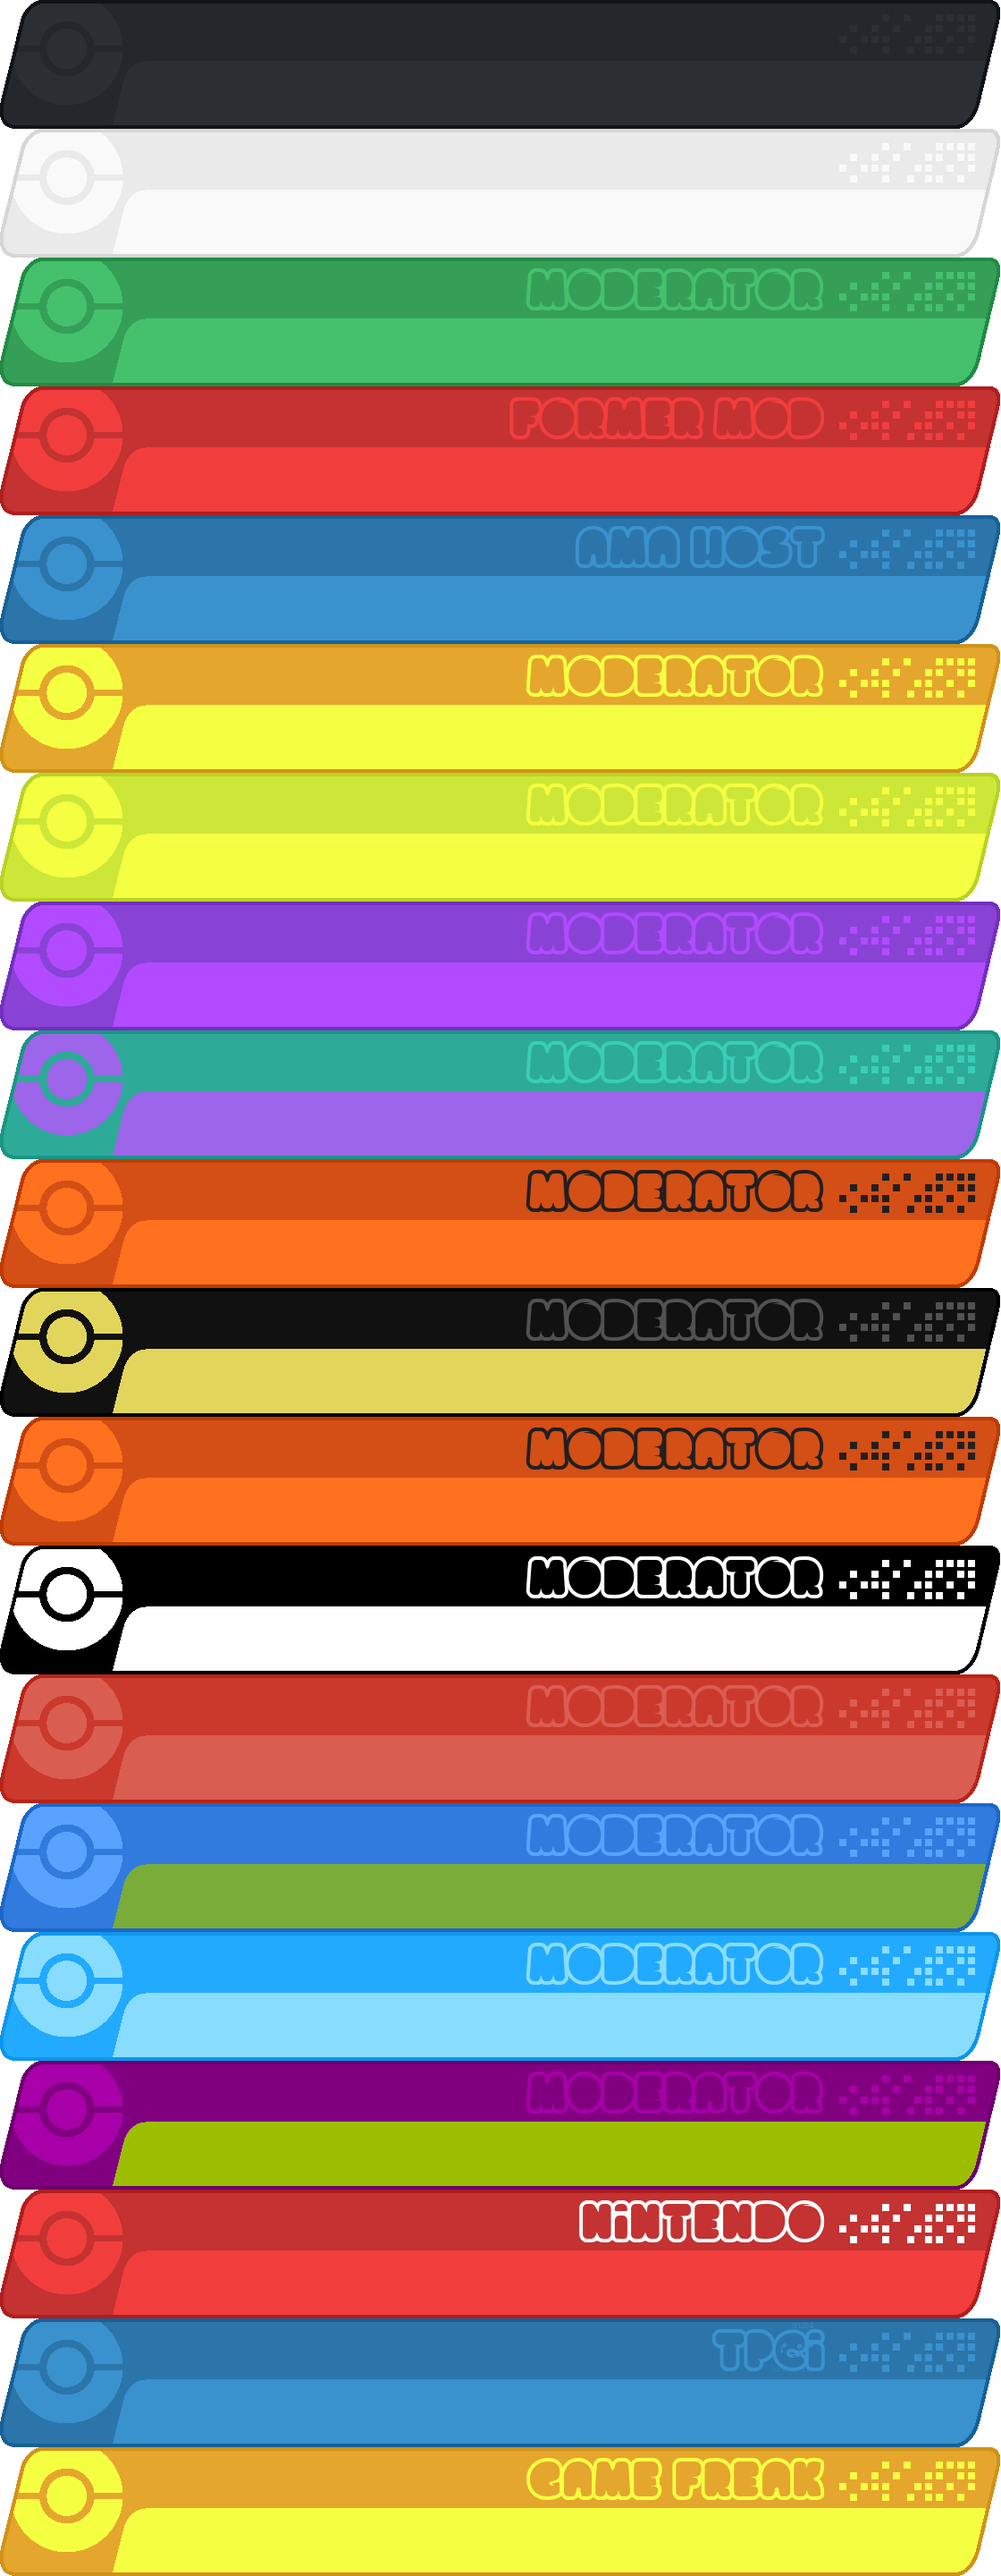
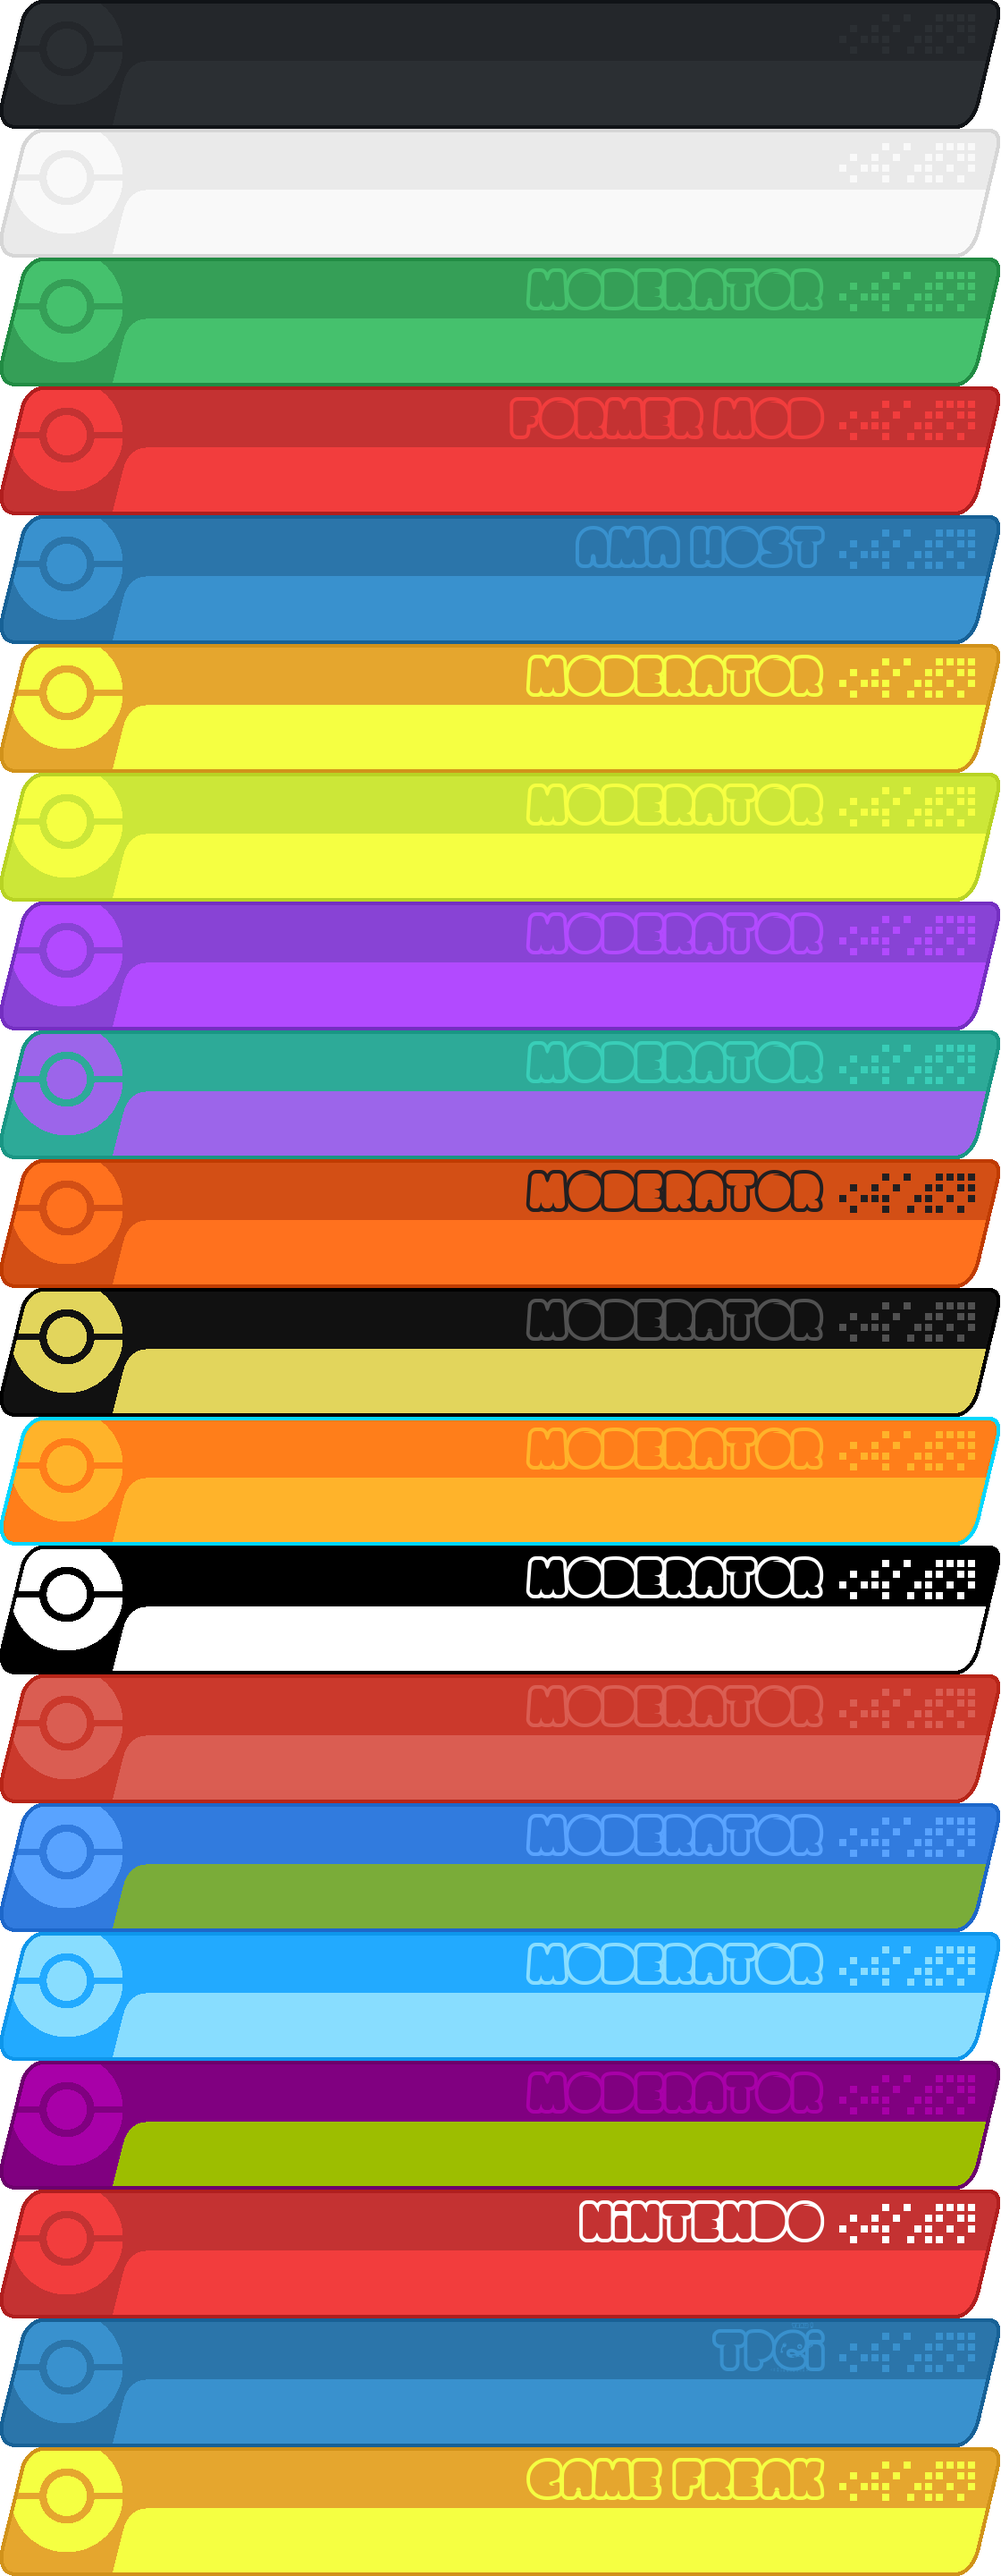
fix samz and mudkip flairbg's

Changed region(s): [[0.0, 0.5312, 1.0, 0.625]]

diff --git a/src/userflair.css b/src/userflair.css
@@ -358,7 +358,7 @@ TEMPLATE:
 .author.moderator[href$="/IAmzSamz"]~.flair:before,
 .side .tagline .author[href$="/IAmzSamz"],
 .side .tagline .author[href$="/IAmzSamz"]~.flair:before  {
-    background-position: 0 -388px !important;
+    background-position: 0 -288px !important;
     color: #fff !important;
 }
 

diff --git a/images/FlairBG/generate.py b/images/FlairBG/generate.py
@@ -71,9 +71,9 @@ flairs = [
         "text": "Moderator" 
     },
     {   # Mudkip
-        "top_section": (211, 79, 21),
-        "bottom_section": (255, 113, 30),
-        "top_squares": (35, 31, 32),
+        "top_section": (255, 126, 26),
+        "bottom_section": (255, 179, 42),
+        "shape_border": (0, 215, 255),
         "text": "Moderator" 
     },
     {   # TexasAndroid
